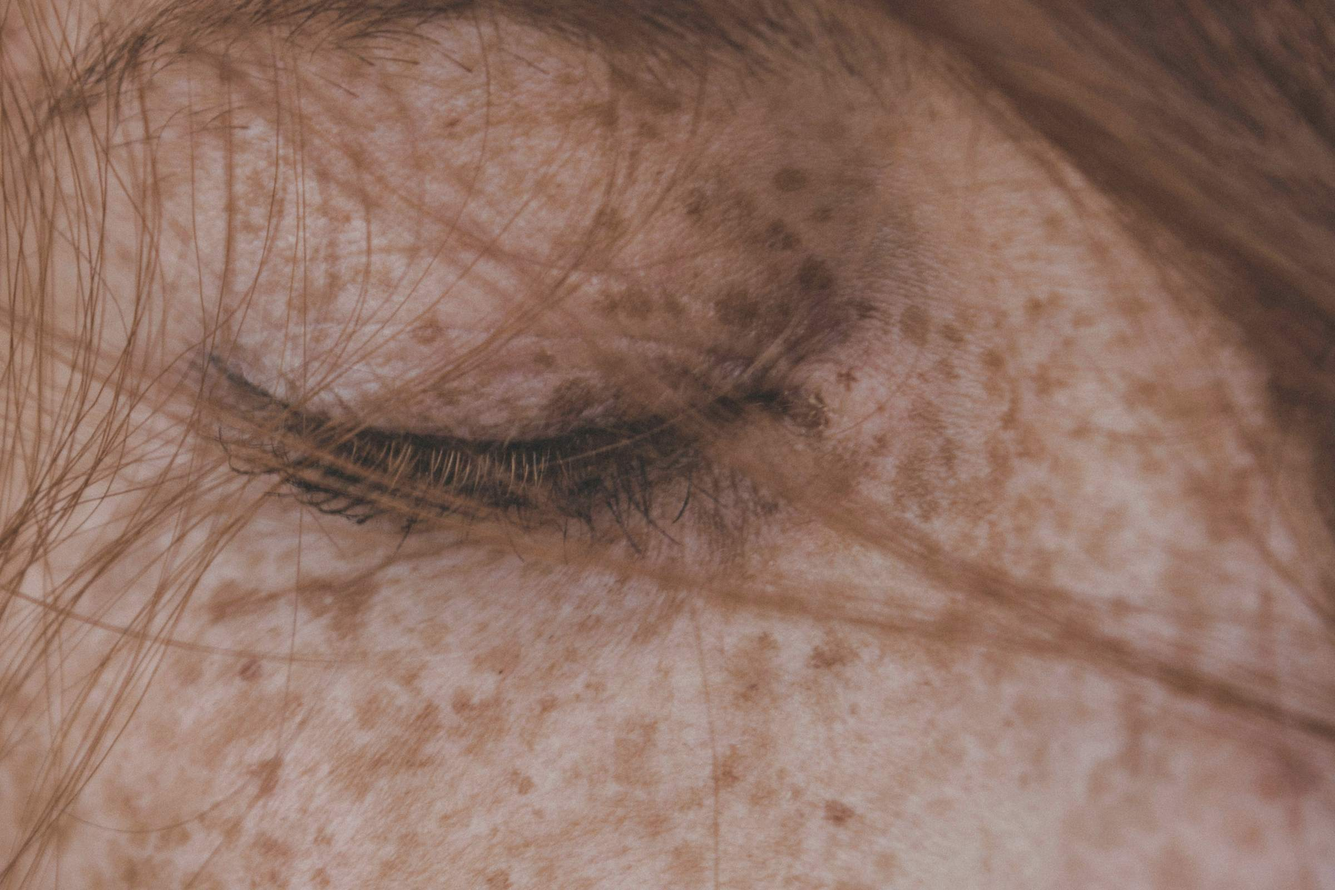
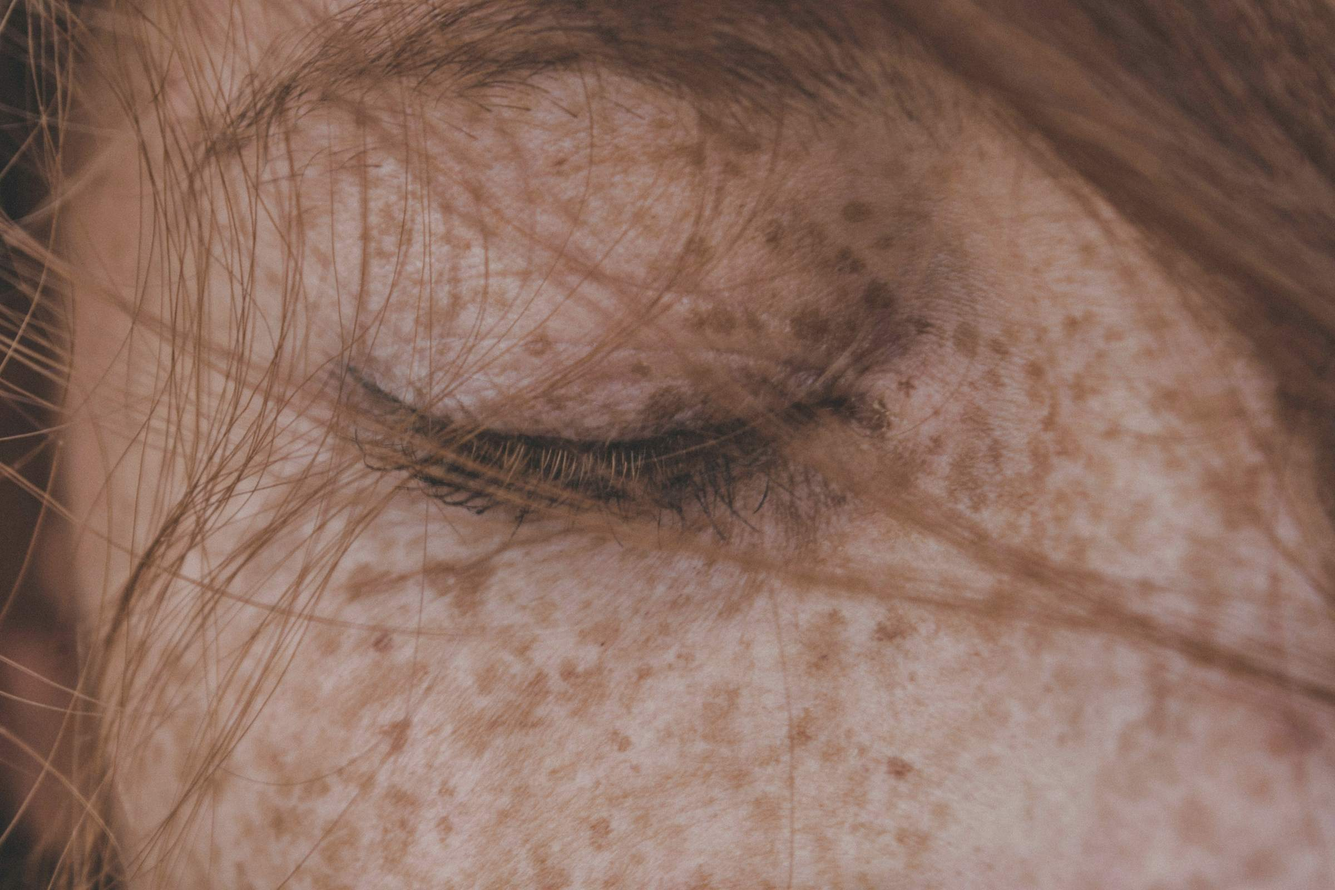
Revisão via Claude Desktop 2026-10-05 21:43

diff --git a/index.html b/index.html
@@ -18,7 +18,7 @@
 <link rel="preconnect" href="https://fonts.gstatic.com" crossorigin>
 <link href="https://fonts.googleapis.com/css2?family=Cormorant+Garamond:ital,wght@0,300;0,400;0,500;1,300;1,400&amp;family=Inter:wght@300;400;500&amp;display=swap" rel="stylesheet">
 <link rel="preload" as="image" href="assets/img/heroi-sardas-olho-celular.webp" media="(max-width: 899px)">
-<link rel="preload" as="image" href="assets/img/heroi-sardas-olho-pc.webp" media="(min-width: 900px)">
+<link rel="preload" as="image" href="assets/img/heroi-sardas-olho-direita.webp" media="(min-width: 900px)">
 <link rel="stylesheet" href="assets/css/base.css">
 <link rel="stylesheet" href="assets/css/style.css">
 <script type="application/ld+json">
@@ -79,8 +79,8 @@
   <section class="heroi" id="inicio" data-heroi>
     <div class="heroi__midia">
       <picture>
-        <source media="(min-width: 900px)" type="image/webp" srcset="assets/img/heroi-sardas-olho-pc.webp">
-        <source media="(min-width: 900px)" srcset="assets/img/heroi-sardas-olho-pc.jpg">
+        <source media="(min-width: 900px)" type="image/webp" srcset="assets/img/heroi-sardas-olho-direita.webp">
+        <source media="(min-width: 900px)" srcset="assets/img/heroi-sardas-olho-direita.jpg">
         <source type="image/webp" srcset="assets/img/heroi-sardas-olho-celular.webp">
         <img src="assets/img/heroi-sardas-olho-celular.jpg" width="1080" height="1620" alt="Rosto de pele clara com sardas, olho fechado, em close" fetchpriority="high">
       </picture>
